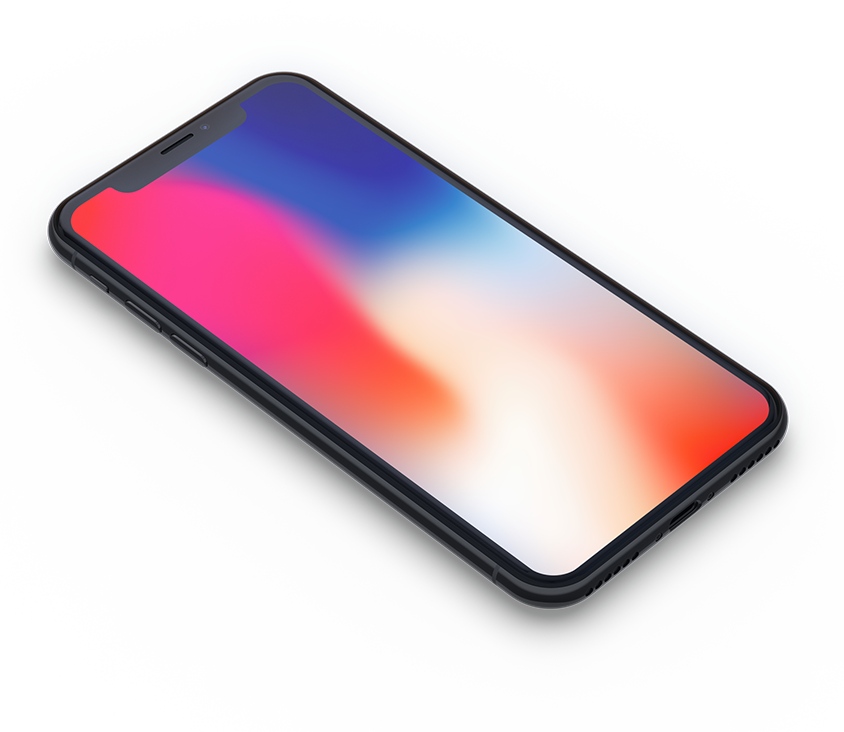
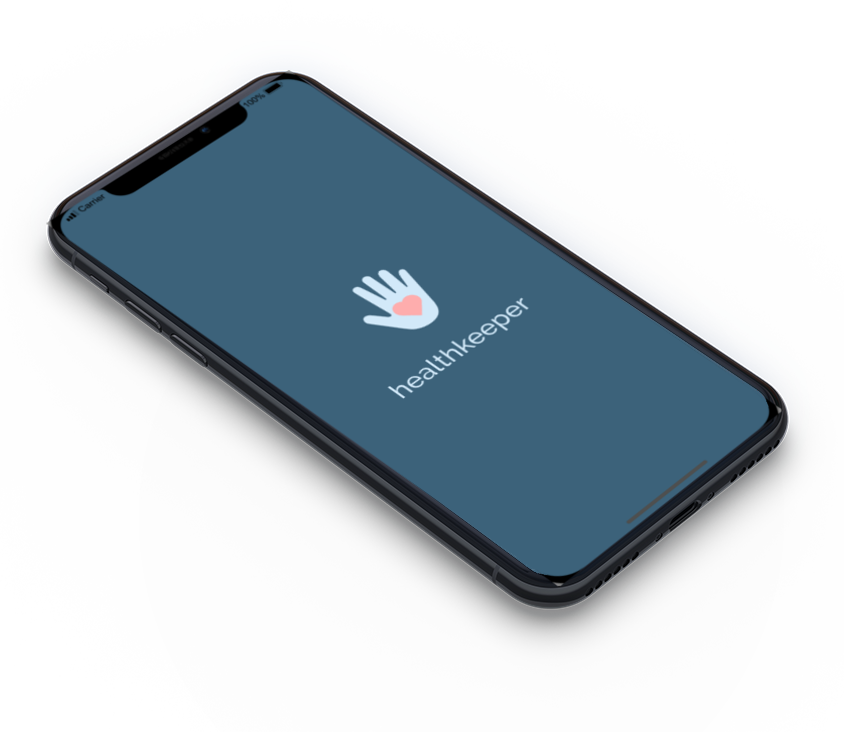
v3.8 portfolio
Updated healthkeeper case study styles and some content. Updated homepage styles slightly to debug. Pages successfully connected via github

Changed region(s): [[0.0616, 0.0902, 0.9242, 0.8115]]

diff --git a/page1/page1.html b/page1/page1.html
@@ -5,7 +5,7 @@
     <meta name="viewport"
           content="width=device-width, user-scalable=no, initial-scale=1.0, maximum-scale=1.0, minimum-scale=1.0">
     <meta http-equiv="X-UA-Compatible" content="ie=edge">
-    <title>Soft UI Website</title>
+    <title>healthkeeper UX Case Study</title>
     <!--Font Awesome CDN-->
     <link rel="stylesheet" href="https://cdnjs.cloudflare.com/ajax/libs/font-awesome/5.12.0/css/all.min.css">
     <!--Bootstrap CDN-->
@@ -13,12 +13,13 @@
     <!--My stylesheet-->
     <link rel="stylesheet" href="styles.css">
 </head>
+<a name="top"></a>
 <body>
     <header>
         <div class="container">
             <nav class="nav">
                 <!-- doublecheck add href -->
-                <a href="#" class="nav-brand">Project Type | <span>title</span></a>
+                <a href="#top" class="nav-brand">UX Case Study | <span>healthkeeper</span></a>
                 <div class="menu-toggler">
                     <i class="fas fa-bars"></i>
                 </div>
@@ -27,16 +28,7 @@
                         <a href="../index.html" class="nav-link">Home</a>
                     </li>
                     <li class="nav-item">
-                        <a href="#" class="nav-link">Features</a>
-                    </li>
-                    <li class="nav-item">
-                        <a href="#" class="nav-link">Pricing</a>
-                    </li>
-                    <li class="nav-item">
-                        <a href="#" class="nav-link">Blog</a>
-                    </li>
-                    <li class="nav-item">
-                        <a href="#" class="nav-link">Contact</a>
+                        <a href="#prototype" class="nav-link">Prototype</a>
                     </li>
                 </ul>
             </nav>
@@ -48,9 +40,9 @@
             <div class="row">
                 <div class="col">
                     <div class="main-content text-center">
-                        <h1 class="main-heading"> iPhone X</h1>
+                        <h1 class="main-heading"> healthkeeper</h1>
                         <p class="main-p m-0">Track. Improve. Maintain.</p>
-                        <img src="images/iphonex.png" alt="">
+                        <img src="images/apppage6.png" alt="">
                     </div>
                 </div>
             </div>
@@ -59,13 +51,13 @@
     
 <!-- Text first header & description, button, image right -->
 <!-- 35:12 in https://www.youtube.com/watch?v=CuvsFBmUPA0&feature=share for bootstrap instructions on repositioning the photo/text -->
-    <section class="closer-look light-bg py-5">
+    <section class="overview light-bg py-5">
         <div class="container">
             <div class="row align-items-md-center">
                 <div class="col-md-6 mb-4 mb-md-0">
-                    <h1 class="section-heading">Take a closer look.</h1>
-                    <p class="my-4">Lorem ipsum dolor sit amet consectetur, adipisicing elit. Nesciunt, sequi. Sint dicta deserunt ipsa nisi.</p>
-                    <a href="#" class="text-uppercase d-inline-block btn-soft light">View gallery</a>
+                    <h1 class="section-heading">Project Overview</h1>
+                    <p class="my-4">Problem</p>
+                    <a href="#" class="text-uppercase d-inline-block btn-soft light">View prototype</a>
                 </div>
                 <div class="col-md-6 text-center">
                     <img class="img-fluid d-md-block ml-md-auto"src="images/perspective.png" alt="">
@@ -152,12 +144,44 @@
     <!-- features - card description end -->
 
 
+    <!-- clickable prototype -->
+    <a name="prototype"></a>
+    <section class="sharp-contrast py-5">
+        <div class="container">
+            <div class="row">
+                <div class="col-md-8 text-center">
+                    <iframe style="border: 1px solid rgba(0, 0, 0, 0.1);" width="800" height="450" src="https://www.figma.com/embed?embed_host=share&url=https%3A%2F%2Fwww.figma.com%2Fproto%2FZrbcmzif7Iun154WEZqBrP%2Fsolo-healthkeeper%3Fnode-id%3D259%253A32%26viewport%3D608%252C326%252C0.21503128111362457%26scaling%3Dscale-down&chrome=DOCUMENTATION" allowfullscreen></iframe>
+                </div>
+                <div class="col-md-4 mb-4 mb-md-0">
+                    <h1 class="section-heading">Clickable Prototype</h1>
+                </div>
+            </div>
+        </div>
+    </section>
+    <!-- clickable prototype end -->
+
+    <section class="overview light-bg py-5">
+        <div class="container">
+            <h1>stuff</h1>
+            <!-- <div class="row align-items-md-center">
+                <div class="col-md-6 mb-4 mb-md-0">
+                    <h1 class="section-heading">Project Overview</h1>
+                    <p class="my-4">Problem</p>
+                    <a href="#" class="text-uppercase d-inline-block btn-soft light">View prototype</a>
+                </div>
+                <div class="col-md-6 text-center">
+                    <img class="img-fluid d-md-block ml-md-auto"src="images/perspective.png" alt="">
+                </div>
+            </div> -->
+        </div>
+    </section>
+
     <!-- footer starts here -->
     <footer class="py-5">
         <div class="container">
             <div class="row">
                 <div class="col-md-6">
-                    <h5 class="nav-brand">Soft <span>UI</span></h5>
+                    <h5 class="nav-brand">UX Case Study | <span>healthkeeper</span></h5>
                     <p>Lorem ipsum dolor sit amet, consectetur adipisicing elit. Sed, nostrum.</p>
                 </div>
 

diff --git a/page1/styles.css b/page1/styles.css
@@ -6,20 +6,20 @@ html{
 
 /*Variables*/
 :root{
-    --background-color: linear-gradient(120deg, #37393b, #2e3032);
-    --light-font-color: #b9bbc2;
+    --background-color: linear-gradient(120deg, #3c627a, #273e4d);
+    --light-font-color: #abbac5;
     --shadow-normal:
-            7px 5px 10px #2b2d2f,
-            -7px -5px 10px #3b3d3f;
+            -7px 5px 10px #263e4e,
+            7px -5px 10px #365468;
     --shadow-inset:
-            inset 7px 5px 10px #2b2d2f,
-            inset -7px -5px 10px #3b3d3f;
+            inset -7px 5px 10px #263e4e,
+            inset 7px -5px 10px #365468;
     --shadow-normal-light:
-            7px 5px 10px rgba(0,0,0,.1),
-            -7px -5px 10px rgba(255, 255, 255, 0.5);
+            7px 5px 10px rgba(38, 41, 43, 0.1),
+            -7px -5px 10px rgba(233, 246, 255, 0.5);
     --shadow-inset-light:
-            inset 7px 5px 10px rgba(0,0,0,.1),
-            inset -7px -5px 10px rgba(255, 255, 255, 0.5);;
+            inset 7px 5px 10px rgba(38, 41, 43, 0.1),
+            inset -7px -5px 10px rgba(233, 246, 255, 0.5);;
 }
 /* Variables end */
 
@@ -32,7 +32,7 @@ a{
 }
 
 a:hover{
-        color: #c92b7d !important;
+        color: #ffaeae !important;
 }
 
 p{
@@ -66,7 +66,7 @@ header{
 }
 
 .nav-brand span{
-        color: #c92b7d;
+        color: #ffaeae;
         font-weight: 400;
         transition: color .50s ease-in;
 }
@@ -132,6 +132,7 @@ a.nav-brand:hover span{
         font-size: 50px;
         margin-top: 50px;
         text-transform: uppercase;
+        letter-spacing: 2px;
 }
 
 img{
@@ -140,9 +141,9 @@ img{
 /* hero end */
 
 
-/* Closer Look */
+/* Overview */
 .light-bg{
-        background-color: #dae1eb;
+        background-color: rgb(204, 225, 239);
 }
 
 .section-heading{
@@ -168,7 +169,7 @@ img{
 }
 
 
-/* closer look end */
+/* overview end */
 
 
 /* Sharp contrast */

diff --git a/index.html b/index.html
@@ -121,8 +121,8 @@
                 <h6>View some of my work</h6>
             </div>
             <div class="portfolio-item">
-                <div class="portfolio-img has-margin-right" data-aos="fade-right" data-aos-delay="300">
-                    <img src="../portfolio/images/portitem1.jpeg" alt="">
+                <div class="has-margin-right" data-aos="fade-right" data-aos-delay="300">
+                    <img src="../portfolio/images/portitem1.png" alt="iphone splash screen with logo and title" class="mw-25">
                 </div>
                 <div class="portfolio-description" data-aos="fade-left" data-aos-delay="600">
                     <h6>UX Case Study</h6>
@@ -197,9 +197,9 @@
                 <input type="email" id="email" name="email" placeholder="Enter your email..." required>
                 <label for="service">Services:</label>
                 <select name="services" id="service">
-                    <option value="">Web Design</option>
-                    <option value="">Web Development</option>
-                    <option value="">Web Design/Development</option>
+                    <option value="">Game UI</option>
+                    <option value="">UX/UI Design</option>
+                    <option value="">UI Development</option>
                 </select>
                 <label for="subject">Subject:</label>
                 <textarea name="subject" id="subject" cols="10" rows="10"></textarea>

diff --git a/main.css b/main.css
@@ -347,9 +347,11 @@ li{
 .portfolio-item:last-child{
     margin-bottom: 0;
 }
+
 .portfolio-img{
     flex: 1;
 }
+
 
 .portfolio-description{
     flex: 1;
@@ -460,7 +462,7 @@ li{
 
 form{
     width: 70%;
-    margin: 0 auto;
+    margin: 0 auto 50px;
 }
 
 form label{
@@ -472,14 +474,16 @@ select,
 textarea{
     width: 100%;
     padding: 1rem;
-    margin-bottom: 5px;
+    margin-bottom: 10px;
     border: none;
     outline-color: #c6564b;
 }
 
 
 input[type="submit"]{
-    width: initial;
+    width: 40%;
+    font-size: 1.5rem;
+    float: right;
     background-color: #c6564b;
     color: #eee;
     padding: 1rem 2rem;
